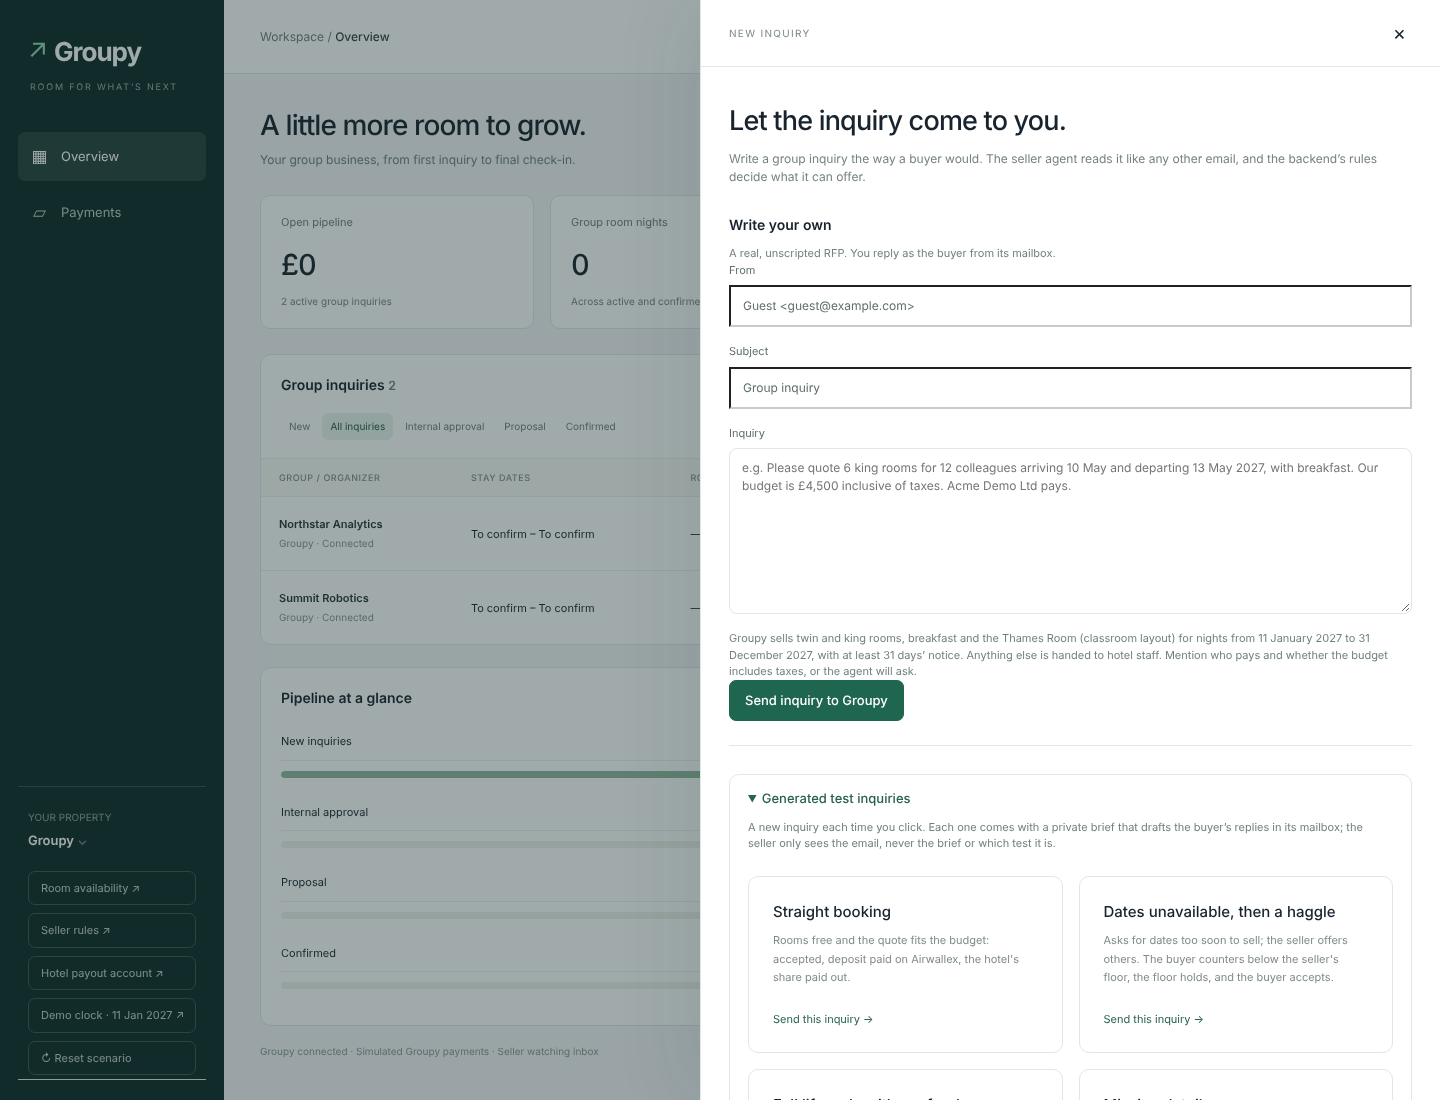
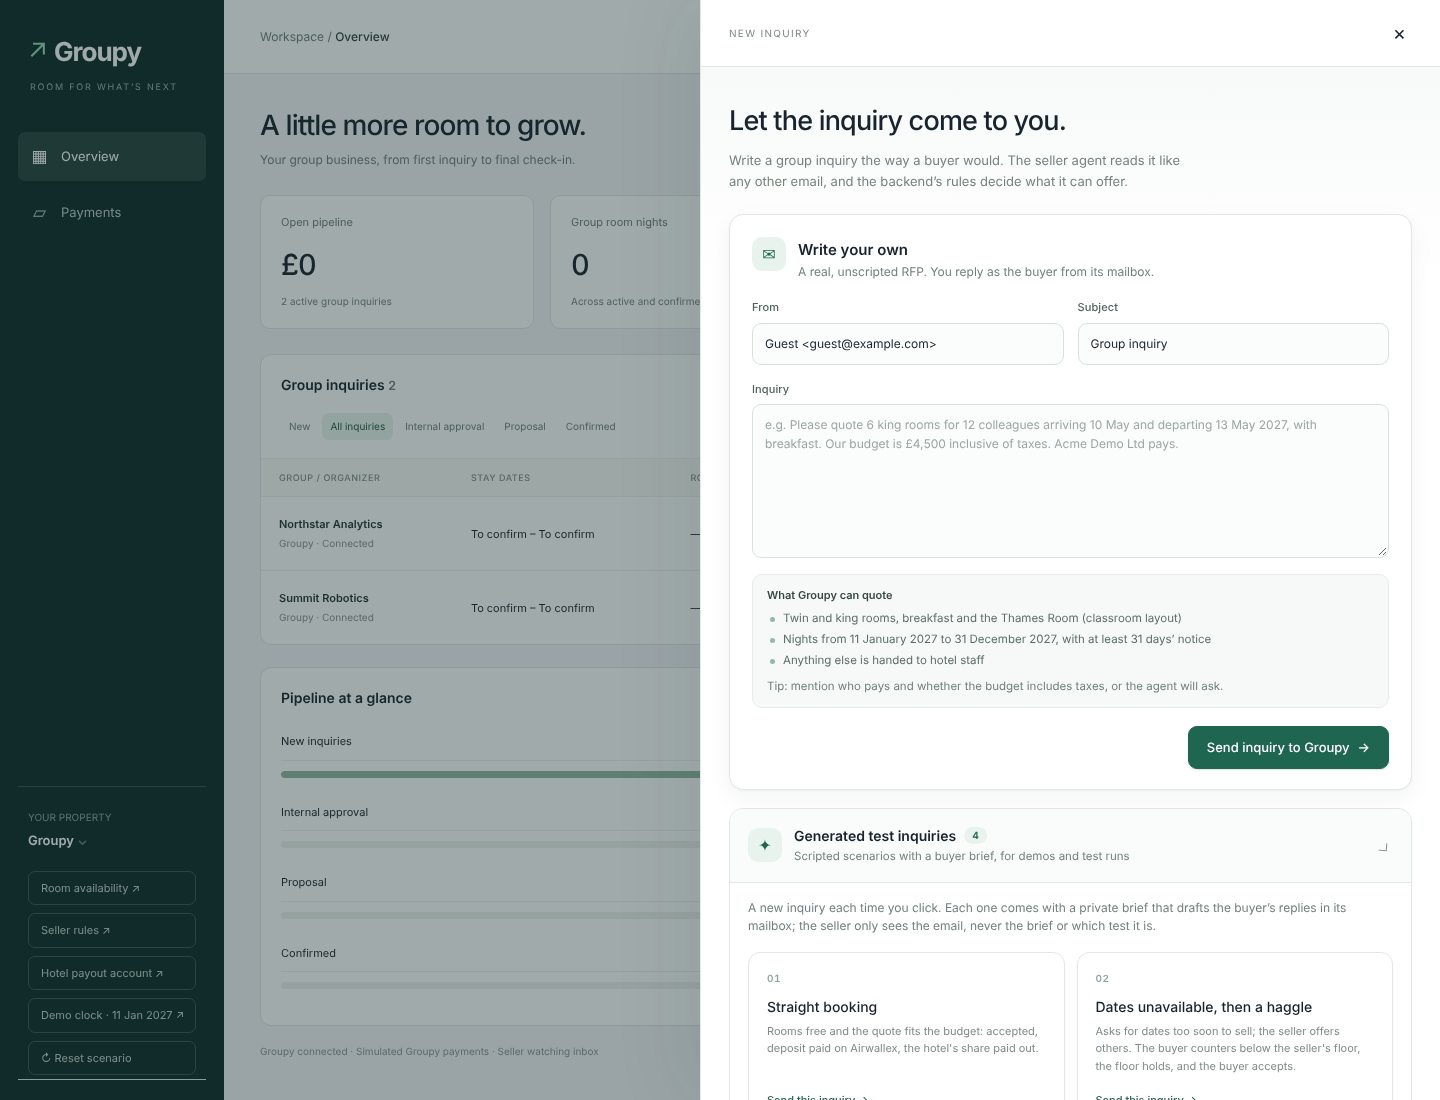
New inquiry: a calmer, clearer panel
"Write your own" is now a card with an icon header, From and Subject side
by side, a styled inquiry box with a visible focus ring, and "What Groupy
can quote" as a short list instead of a run-on sentence. The send button
sits on the right (full width on phones) with an arrow.

"Generated test inquiries" gets a proper header (icon, count, one-line
summary, chevron) and numbered preset cards that lift on hover. Inputs no
longer fall back to the browser's heavy default border. Same IDs, same
behaviour; screenshots refreshed.

Claude-Session: https://claude.ai/code/session_01E9LeyTBdsYQRafNhg11Cvd

diff --git a/web/openflow.js b/web/openflow.js
@@ -82,12 +82,13 @@
     try { catalog = await window.Harbour.presets(); }
     catch (err) { $('wbDrawerBody').innerHTML='<h2 id="wbDrawerTitle" tabindex="-1">Let the inquiry come to you.</h2><p class="wb-lede">Write a group inquiry the way a buyer would. (Generated test inquiries couldn’t be loaded.)</p>' + thirdPartyForm() + ownForm(); wireOwn(); return; }
     const S = actual(), b = S?.bookable;
-    const cards = Object.keys(catalog.presets).map(k => { const i = catalog.info[k] || {title: k, shows: ''};
-      return `<button class="wb-channel" data-preset="${html(k)}"><b>${html(i.title)}</b><p>${html(i.shows)}</p><span class="wb-channel-action">Send this inquiry →</span></button>`; }).join('');
+    const keys = Object.keys(catalog.presets);
+    const cards = keys.map((k, n) => { const i = catalog.info[k] || {title: k, shows: ''};
+      return `<button class="wb-channel" data-preset="${html(k)}"><span class="wb-channel-index" aria-hidden="true">${String(n + 1).padStart(2, '0')}</span><b>${html(i.title)}</b><p>${html(i.shows)}</p><span class="wb-channel-action">Send this inquiry <span class="wb-arrow" aria-hidden="true">→</span></span></button>`; }).join('');
     showDrawer('Let the inquiry come to you.', `<p class="wb-lede">Write a group inquiry the way a buyer would. The seller agent reads it like any other email, and the backend’s rules decide what it can offer${S?.provider==='airwallex' ? ', with real Airwallex sandbox payments' : ''}.</p>
       ${thirdPartyForm()}
       ${ownForm(b)}
-      <details class="wb-traits wb-generated"><summary>Generated test inquiries</summary>
+      <details class="wb-traits wb-generated"><summary><span class="wb-ni-icon" aria-hidden="true">✦</span><span class="wb-ni-sum"><span class="wb-ni-sum-title"><span>Generated test inquiries</span><span class="wb-ni-count">${keys.length}</span></span><span class="wb-ni-sum-sub">Scripted scenarios with a buyer brief, for demos and test runs</span></span><span class="wb-ni-chevron" aria-hidden="true"></span></summary>
         <p class="wb-sub">A new inquiry each time you click. Each one comes with a private brief that drafts the buyer’s replies in its mailbox; the seller only sees the email, never the brief or which test it is.</p>
         <div class="wb-channel-grid">${cards}</div>
       </details>`, 'NEW INQUIRY');
@@ -108,14 +109,21 @@
   function thirdPartyForm(){if(!window.Vendors)return '';return `<fieldset class="card"><legend>Third-party simulation</legend><label><input id="wbThirdParty" type="checkbox"> Needs third-party services</label><label class="wb-field">Service<select id="wbThirdPartyCategory">${['av','catering','meeting','rooms','technician','amenities'].map(c=>`<option value="${c}">${c}</option>`).join('')}</select></label><label><input id="wbThirdPartyQuote" type="checkbox" checked> Include a hypothetical quote response</label><p class="small muted">Creates a simulated preferred-provider request once stay dates are recorded. Review the quote, approve it and simulate confirmation in the inquiry’s third-party workspace. No provider is contacted.</p></fieldset>`;}
   function thirdPartyOptions(){return $('wbThirdParty')?.checked?{category:$('wbThirdPartyCategory').value,quote_response:$('wbThirdPartyQuote').checked}:null;}
   function ownForm(b) {
-    const scope = b ? `for nights from ${longDate(b.first_night)} to ${longDate(b.last_night)}, with at least ${b.min_days_before_arrival} days’ notice` : 'for its bookable nights';
-    return `<form id="wbInbound"><h3>Write your own</h3>
-        <p class="wb-sub">A real, unscripted RFP. You reply as the buyer from its mailbox.</p>
-        <label class="wb-field">From<input id="wbInquiryFrom" required maxlength="200" value="Guest <guest@example.com>"></label>
-        <label class="wb-field">Subject<input id="wbInquirySubject" required maxlength="200" value="Group inquiry"></label>
-        <label class="wb-field">Inquiry<textarea id="wbInquiryText" rows="8" required maxlength="5000" placeholder="e.g. Please quote 6 king rooms for 12 colleagues arriving 10 May and departing 13 May 2027, with breakfast. Our budget is £4,500 inclusive of taxes. Acme Demo Ltd pays."></textarea></label>
-        <p class="wb-sub">Groupy sells twin and king rooms, breakfast and the Thames Room (classroom layout) ${html(scope)}. Anything else is handed to hotel staff. Mention who pays and whether the budget includes taxes, or the agent will ask.</p>
-        <button class="wb-primary" type="submit" id="wbSend">Send inquiry to Groupy</button></form>`;
+    const scope = b ? `Nights from ${longDate(b.first_night)} to ${longDate(b.last_night)}, with at least ${b.min_days_before_arrival} days’ notice` : 'Its bookable nights only';
+    return `<form id="wbInbound" class="wb-ni-card">
+        <div class="wb-ni-head"><span class="wb-ni-icon" aria-hidden="true">✉</span><div><h3>Write your own</h3>
+          <p class="wb-sub">A real, unscripted RFP. You reply as the buyer from its mailbox.</p></div></div>
+        <div class="wb-ni-pair">
+          <label class="wb-field">From<input id="wbInquiryFrom" type="text" required maxlength="200" autocomplete="off" value="Guest <guest@example.com>"></label>
+          <label class="wb-field">Subject<input id="wbInquirySubject" type="text" required maxlength="200" autocomplete="off" value="Group inquiry"></label>
+        </div>
+        <label class="wb-field">Inquiry<textarea id="wbInquiryText" rows="7" required maxlength="5000" placeholder="e.g. Please quote 6 king rooms for 12 colleagues arriving 10 May and departing 13 May 2027, with breakfast. Our budget is £4,500 inclusive of taxes. Acme Demo Ltd pays."></textarea></label>
+        <div class="wb-ni-scope"><b>What Groupy can quote</b>
+          <ul><li>Twin and king rooms, breakfast and the Thames Room (classroom layout)</li>
+            <li>${html(scope)}</li>
+            <li>Anything else is handed to hotel staff</li></ul>
+          <p>Tip: mention who pays and whether the budget includes taxes, or the agent will ask.</p></div>
+        <div class="wb-ni-actions"><button class="wb-primary" type="submit" id="wbSend">Send inquiry to Groupy <span class="wb-arrow" aria-hidden="true">→</span></button></div></form>`;
   }
   function wireOwn() {
     $('wbInbound').onsubmit=async e=>{

diff --git a/web/openflow.css b/web/openflow.css
@@ -161,3 +161,59 @@ body:has(.wb-drawer[open]) { overflow:hidden; }
 #vendorPage td.r { white-space:nowrap; }
 #vendorPage .wb-heading > div { min-width:0; }
 #vendorPage h1 { overflow-wrap:anywhere; }
+
+/* New inquiry drawer */
+.wb-drawer-body { background:linear-gradient(180deg,#f7faf8 0,#fff 220px); }
+.wb-drawer .wb-lede { font-size:13px; line-height:1.6; max-width:56ch; margin:0 0 22px; }
+.wb-ni-card { background:#fff; border:1px solid var(--line); border-radius:14px; padding:22px 22px 20px; box-shadow:0 1px 2px #12302a0a, 0 8px 24px #12302a0d; }
+#wbInbound.wb-ni-card { margin-bottom:18px; padding-bottom:20px; border-bottom:1px solid var(--line); }
+.wb-ni-head { display:flex; gap:12px; align-items:flex-start; margin-bottom:18px; }
+.wb-ni-head h3 { margin:2px 0 2px; font-size:15px; }
+.wb-ni-head .wb-sub { margin:0; font-size:12px; }
+.wb-ni-icon { flex:none; width:34px; height:34px; border-radius:10px; display:grid; place-items:center; background:var(--accent-soft); color:var(--accent); font-size:16px; line-height:1; }
+.wb-ni-pair { display:grid; grid-template-columns:1fr 1fr; gap:0 14px; }
+.wb-drawer .wb-field { font-size:11px; font-weight:550; color:#4f625a; letter-spacing:.1px; }
+.wb-drawer .wb-field input,.wb-drawer .wb-field textarea,.wb-drawer .wb-field select { font-weight:400; color:var(--fg); background:#fbfcfc; border:1px solid #d9e1de; border-radius:9px; padding:11px 12px; transition:border-color .15s, box-shadow .15s, background .15s; }
+.wb-drawer .wb-field textarea { line-height:1.55; min-height:150px; }
+.wb-drawer .wb-field input:hover,.wb-drawer .wb-field textarea:hover { border-color:#c3cfca; }
+.wb-drawer .wb-field input:focus,.wb-drawer .wb-field textarea:focus,.wb-drawer .wb-field select:focus { outline:none; background:#fff; border-color:var(--accent); box-shadow:0 0 0 3px #1f665024; }
+.wb-drawer .wb-field textarea::placeholder { color:#9aa7a2; }
+.wb-ni-scope { background:var(--sunk); border:1px solid #e6ece9; border-radius:10px; padding:12px 14px; font-size:11.5px; color:#5b6d65; }
+.wb-ni-scope b { display:block; font-size:11px; font-weight:600; color:#35493f; margin-bottom:6px; }
+.wb-ni-scope ul { margin:0; padding:0; list-style:none; display:grid; gap:4px; }
+.wb-ni-scope li { position:relative; padding-left:16px; }
+.wb-ni-scope li::before { content:""; position:absolute; left:3px; top:.62em; width:5px; height:5px; border-radius:50%; background:#8fbba3; }
+.wb-ni-scope p { margin:8px 0 0; color:#71807a; }
+.wb-ni-actions { display:flex; justify-content:flex-end; margin-top:18px; }
+.wb-drawer .wb-primary { display:inline-flex; align-items:center; gap:8px; padding:11px 18px; border-radius:9px; box-shadow:0 1px 2px #12302a26; transition:background .15s, transform .15s, box-shadow .15s; }
+.wb-drawer .wb-primary:hover:not(:disabled) { background:#195643; box-shadow:0 4px 12px #1f665033; }
+.wb-drawer .wb-primary:disabled { opacity:.6; cursor:progress; }
+.wb-arrow { display:inline-block; transition:transform .15s; }
+.wb-primary:hover .wb-arrow,.wb-channel:hover .wb-arrow { transform:translateX(3px); }
+.wb-drawer .wb-generated { margin:0 0 8px; padding:0; border-radius:14px; overflow:hidden; box-shadow:0 1px 2px #12302a0a; }
+.wb-generated summary { list-style:none; display:flex; align-items:center; gap:12px; padding:16px 18px; color:var(--fg); }
+.wb-generated summary::-webkit-details-marker { display:none; }
+.wb-generated summary:hover { background:#fafcfb; }
+.wb-generated[open] summary { margin:0; border-bottom:1px solid var(--line); }
+.wb-ni-sum { display:grid; gap:2px; flex:1; min-width:0; }
+.wb-ni-sum-title { display:flex; align-items:center; gap:8px; font-size:14px; font-weight:600; }
+.wb-ni-sum-sub { font-size:11.5px; font-weight:400; color:var(--muted); }
+.wb-ni-count { font-size:10px; font-weight:600; color:var(--accent); background:var(--accent-soft); border-radius:20px; padding:1px 8px; }
+.wb-ni-chevron { flex:none; width:8px; height:8px; border-right:1.5px solid #7d8c86; border-bottom:1.5px solid #7d8c86; transform:rotate(45deg); margin:0 6px 4px 0; transition:transform .2s; }
+.wb-generated[open] .wb-ni-chevron { transform:rotate(-135deg); margin:4px 6px 0 0; }
+.wb-generated > .wb-sub { margin:16px 18px 0; font-size:12px; line-height:1.55; }
+.wb-generated .wb-channel-grid { margin:16px 18px 18px; gap:12px; }
+.wb-drawer .wb-channel { position:relative; padding:18px 18px 16px; border:1px solid var(--line); border-radius:12px; background:#fff; transition:border-color .15s, box-shadow .15s, transform .15s; }
+.wb-drawer .wb-channel:hover:not(:disabled) { border-color:#a9c9b8; box-shadow:0 6px 18px #12302a14; transform:translateY(-1px); }
+.wb-drawer .wb-channel:disabled { opacity:.55; cursor:progress; }
+.wb-channel-index { font-size:10px; font-weight:600; letter-spacing:.6px; color:#8fa69b; margin-bottom:10px; font-variant-numeric:tabular-nums; }
+.wb-drawer .wb-channel b { font-size:14px; margin-bottom:6px; }
+.wb-drawer .wb-channel p { margin:0 0 16px; line-height:1.6; }
+.wb-drawer .wb-channel .wb-channel-action { font-weight:550; }
+@media(max-width:760px) {
+ .wb-ni-pair { grid-template-columns:1fr; }
+ .wb-ni-card { padding:18px 16px 16px; border-radius:12px; }
+ .wb-ni-actions .wb-primary { width:100%; justify-content:center; }
+ .wb-generated summary { padding:14px; } .wb-generated > .wb-sub { margin:14px 14px 0; } .wb-generated .wb-channel-grid { margin:14px; }
+}
+@media (prefers-reduced-motion: reduce) { .wb-drawer * { transition:none !important; } }
